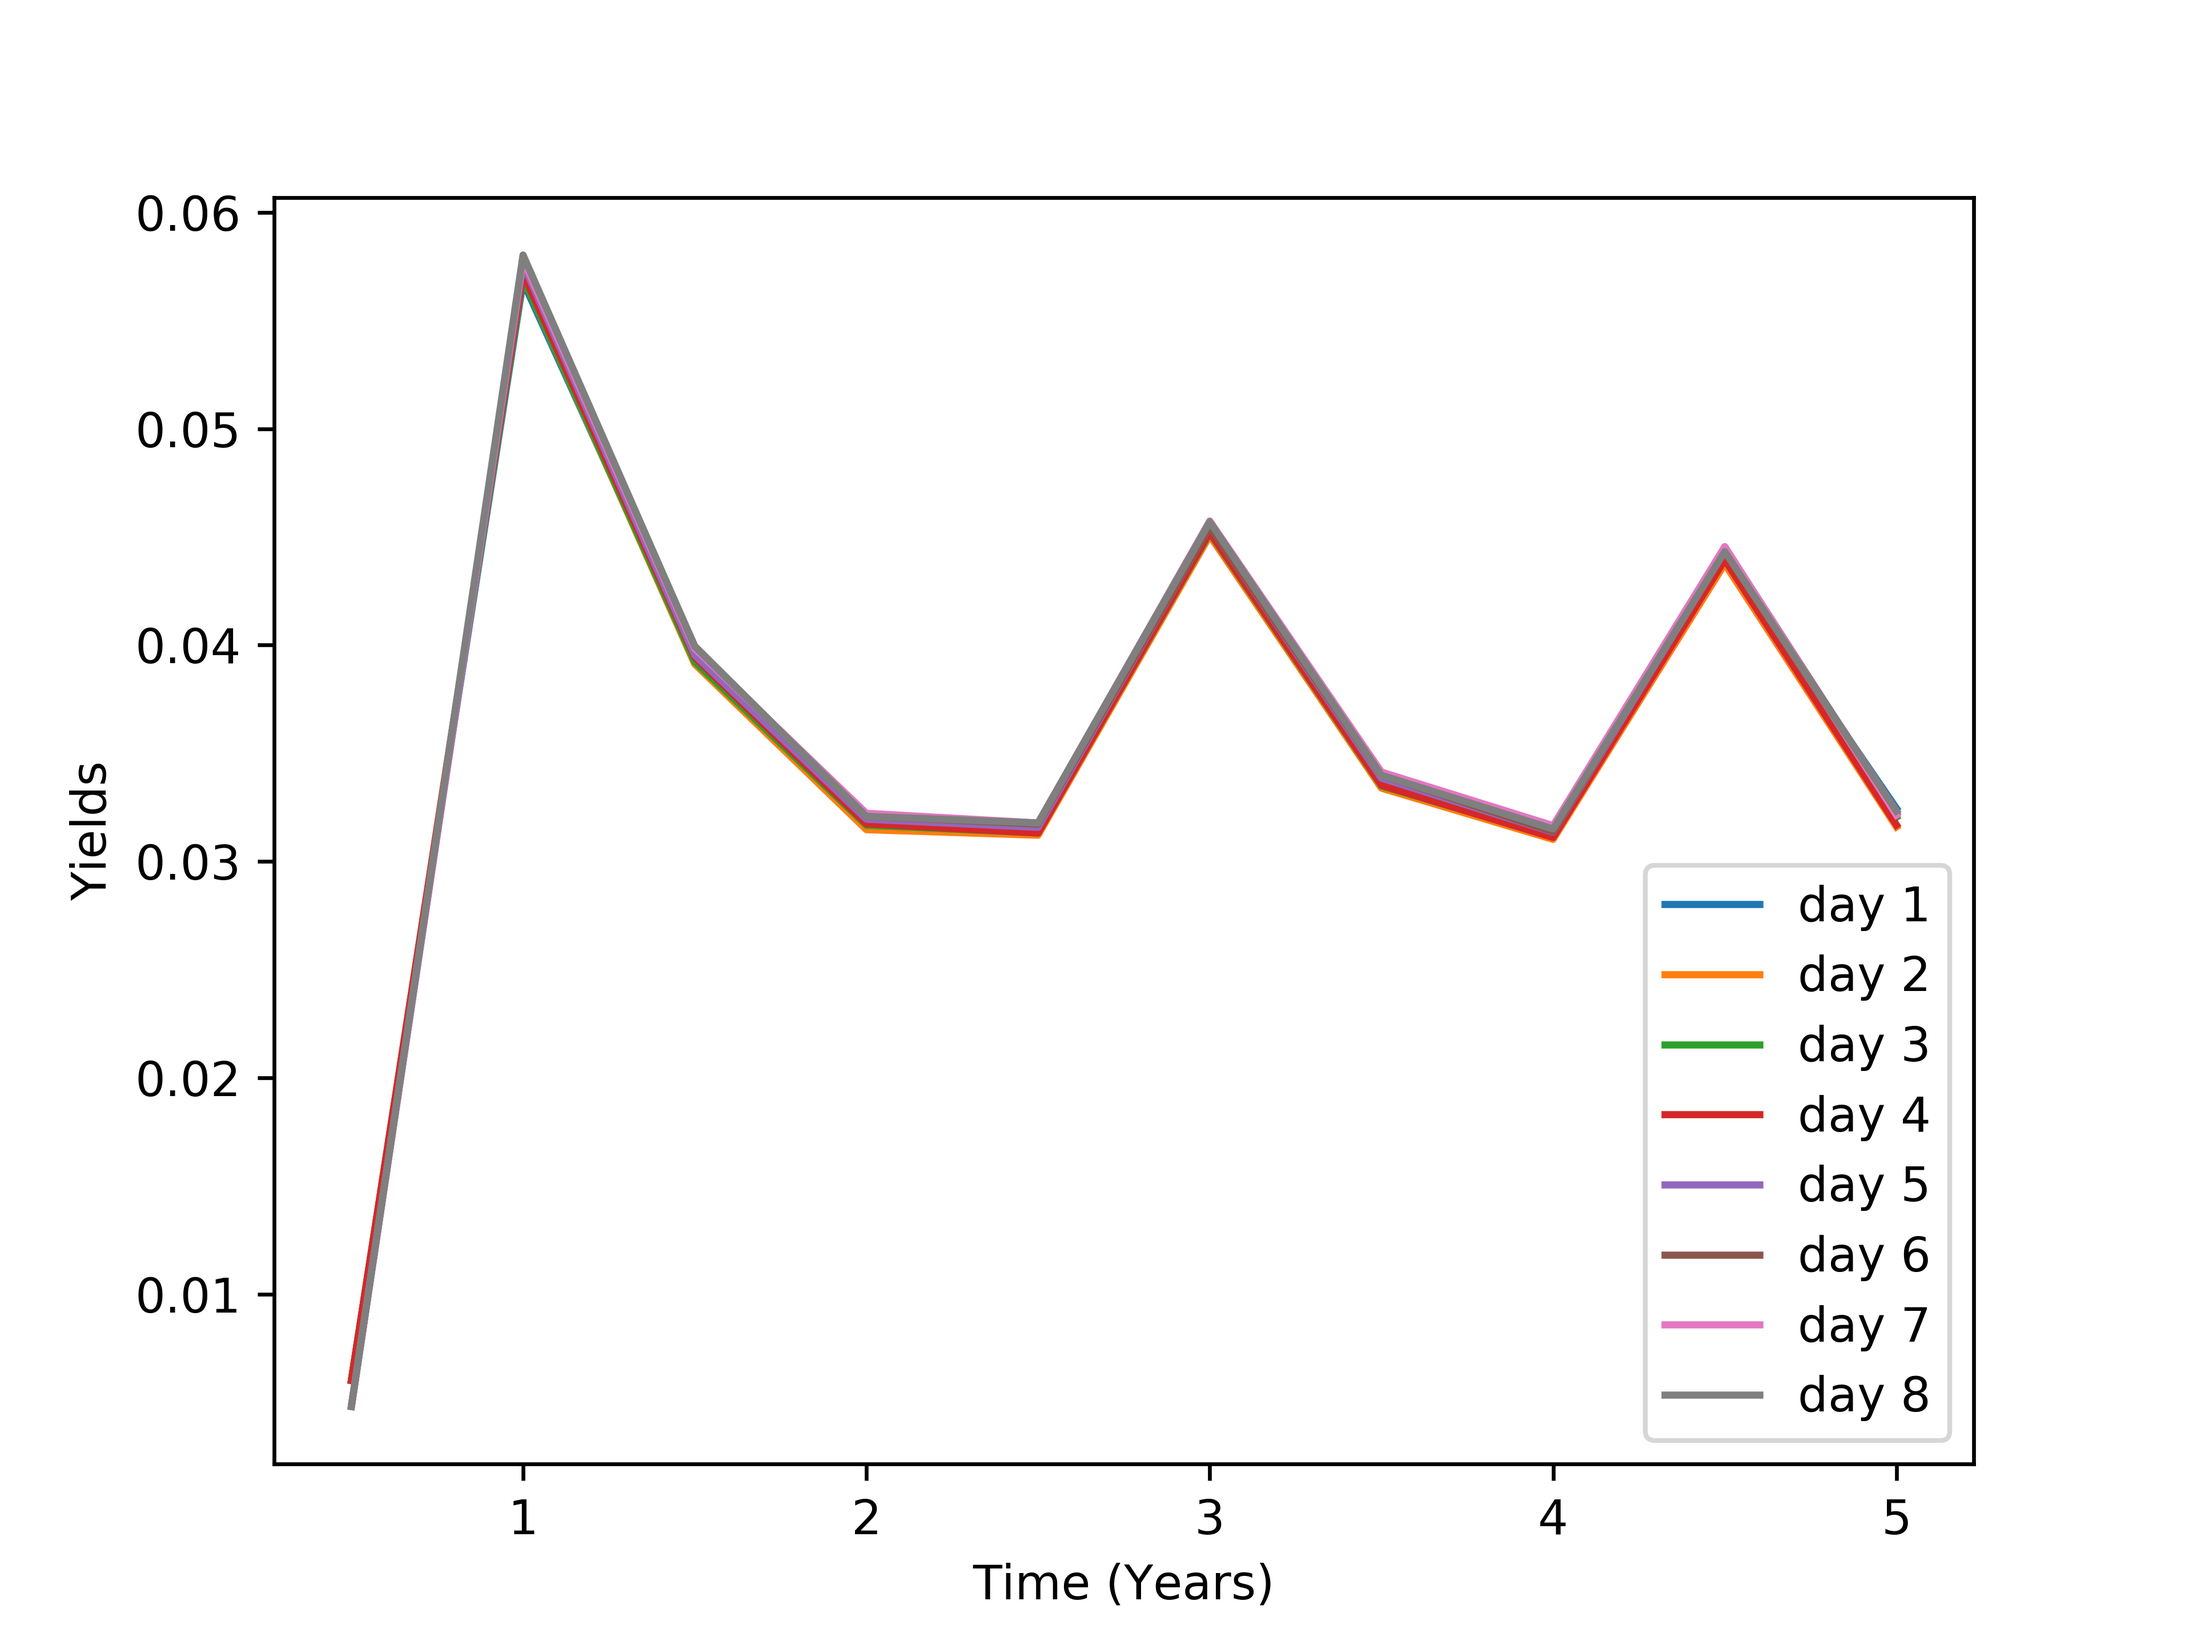
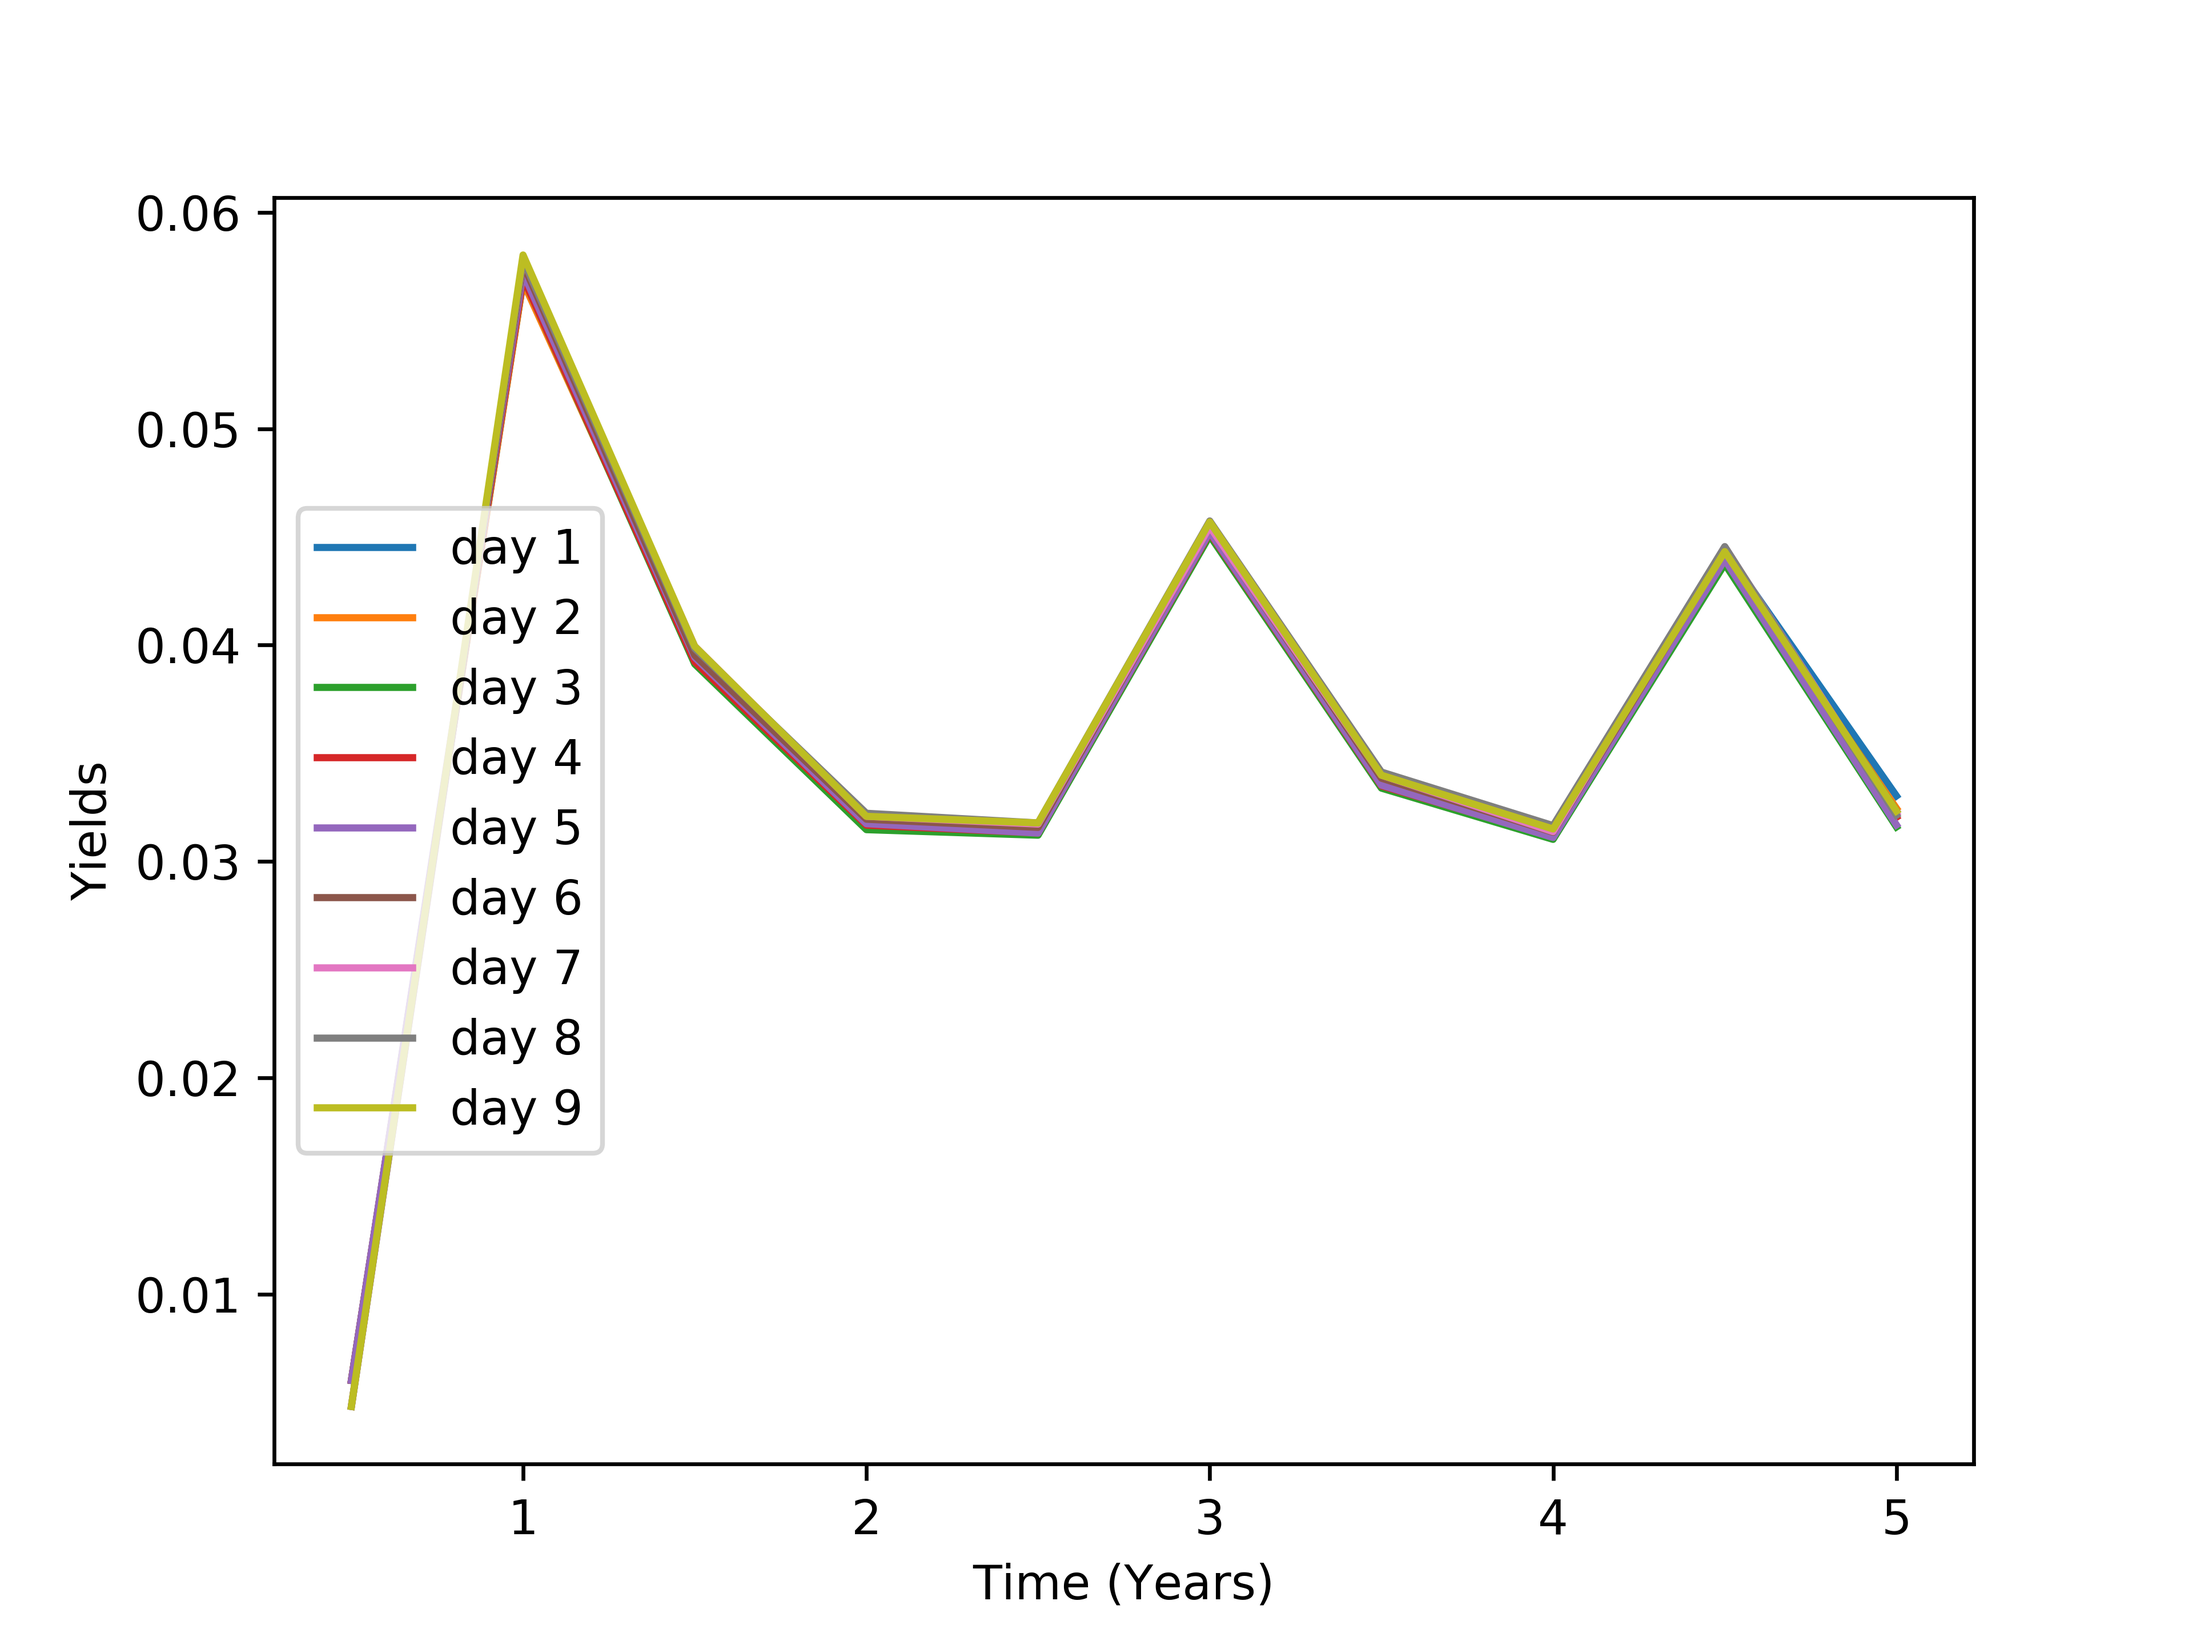
Add files via upload

diff --git a/Assignment 1 APM466.py b/Assignment 1 APM466.py
@@ -33,7 +33,51 @@ def compile_days(days):
         all_yields.append(repeat_step(bonds, i))
     return all_yields
         
-    
+def spot_rates(bonds):
+    spot_rates = []
+    for x in range(1,10):
+        spots = []
+        for i in range(2, 10):
+            exponent = (1 / (i * 0.5))
+            new_spot = ((100 / bonds[12 * i - x]) ** exponent) - 1
+            spots.append(new_spot)
+        spot_rates.append(spots)
+    return spot_rates
+
+def forward_rates(bonds):
+    forward_rates = []
+    spots = spot_rates(bonds)
+    for i in range(1,10):
+        forwards = []
+        #index from 0 to 4 since we're using spot rates, which start at year 1
+        for x in range(0,4):
+            new_forward = ((1 + spots[i-1][2*x])**(x+1)) / ((1+spots[i-1][0])**1) - 1
+            forwards.append(new_forward)
+        forward_rates.append(forwards)
+    return forward_rates
+            
+def cov_matrix_yield(bonds):
+    cov_matrix_yield = []
+    yields = compile_days(10)
+    for i in range(1,5):
+        matrix_yields = []
+        for x in range(1,5):
+            matrix_yields.append(round(numpy.log(yields[i][x+1]/yields[i][x]),4))
+        cov_matrix_yield.append(matrix_yields)
+    return cov_matrix_yield
+
+def cov_matrix_forward(bonds):
+    cov_matrix_forward = []
+    forwards = forward_rates(bonds)
+    for i in range(0,2):
+        matrix_forwards = []
+        #can only index over 1 to 3, since the entire vector of forward rates is 
+        #only from 0 to 3, but at 0 for each vector, the value is 0, and we cannot
+        #divide by 0, we omit 1yt-1yr
+        for x in range(1,3):
+            matrix_forwards.append(round(numpy.log(abs(forwards[i][x+1]/forwards[i][x])),4))
+        cov_matrix_forward.append(matrix_forwards)
+    return cov_matrix_forward
 if __name__ == '__main__':
     running = True
     while running:
@@ -44,16 +88,42 @@ if __name__ == '__main__':
             bond_file = open('bond_data1.csv')
             bonds = csv_to_list(bond_file)
             graph_data = compile_days(10)
-            print(graph_data)
             x = [0.5,1,1.5,2,2.5,3,3.5,4,4.5,5] 
             fig = pyplot.figure()
             ax = pyplot.subplot(111)  
             pyplot.ylabel('Yields')
             pyplot.xlabel('Time (Years)')              
-            for i in range(1,9):
+            for i in range(0,9):
                 y = graph_data[i]
-                ax.plot(x,y, label = 'day {}'.format(i))
+                ax.plot(x,y, label = 'day {}'.format(i + 1))
                 ax.legend()
             pyplot.show()
             pyplot.savefig('yield_curve.png', dpi = 600)
+            
+            spot_graph_data = spot_rates(bonds)
+            fig = pyplot.figure()
+            ax = pyplot.subplot(111)
+            pyplot.ylabel('Spot Rates')
+            pyplot.xlabel('Time to Maturity (Years)')
+            x = [1.5,2,2.5,3,3.5,4,4.5,5]
+            for i in range(0,9):
+                y = spot_graph_data[i]
+                ax.plot(x,y, label = 'day {}'.format(i+1))
+                ax.legend()
+            pyplot.show()
+            pyplot.savefig('spot_curve.png', dpi = 600)
+            
+            forward_graph_data = forward_rates(bonds)
+            fig = pyplot.figure()
+            ax = pyplot.subplot(111)
+            pyplot.ylabel('Forward Rates')
+            pyplot.xlabel('Rate Term (starting at 1 year)')
+            x = [1,2,3,4]
+            for i in range(0,9):
+                y = forward_graph_data[i]
+                ax.plot(x,y, label = 'day {}'.format(i+1))
+                ax.legend()
+            pyplot.show()
+            pyplot.savefig('forward_curve.png', dpi = 600)
+            
             
